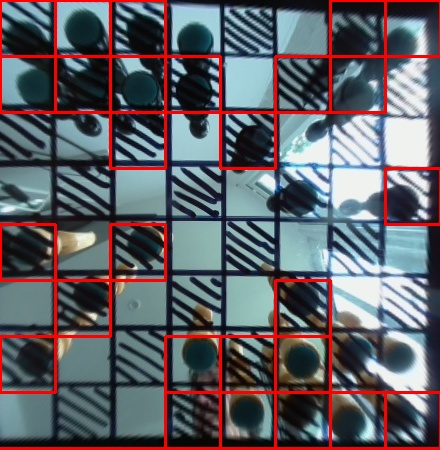
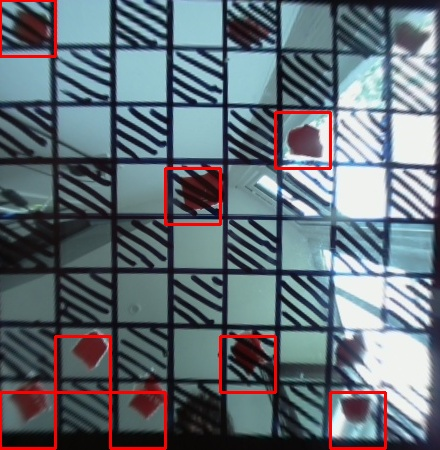
removed all images

diff --git a/detectpieces.py b/detectpieces.py
@@ -11,17 +11,21 @@ x, y, w, h = crop_rectangle
 # Crop the image
 cropped_image = image[y:y+h, x:x+w]
 
-# Convert to grayscale
-gray = cv2.cvtColor(cropped_image, cv2.COLOR_BGR2GRAY)
+# Convert to HSV for better color isolation
+hsv_image = cv2.cvtColor(cropped_image, cv2.COLOR_BGR2HSV)
 
-bilateral_filtered_image = cv2.bilateralFilter(gray, 5, 75, 75)
+# Define color range for red pieces (remember HSV color space is different!)
+lower_red1 = np.array([0, 50, 50])
+upper_red1 = np.array([10, 255, 255])
+lower_red2 = np.array([160, 50, 50])
+upper_red2 = np.array([180, 255, 255])
 
-# Apply Gaussian blur to reduce noise and avoid false circle detection
-gray_blur = cv2.GaussianBlur(bilateral_filtered_image, (15, 15), 0)
+# Threshold the HSV image to get only red colors
+red_mask1 = cv2.inRange(hsv_image, lower_red1, upper_red1)
+red_mask2 = cv2.inRange(hsv_image, lower_red2, upper_red2)
 
-# Threshold the gray image to get only darker colors
-_, threshold = cv2.threshold(gray_blur, 50, 255, cv2.THRESH_BINARY_INV)
-
+# Combine the two masks
+red_mask = cv2.bitwise_or(red_mask1, red_mask2)
 # Define the grid dimensions
 grid_size = 8
 
@@ -29,25 +33,25 @@ grid_size = 8
 step_size_x = w // grid_size
 step_size_y = h // grid_size
 
-# Draw the grid and check for chess pieces
+# Draw the grid and check for red pieces
 for i in range(0, w, step_size_x):
     for j in range(0, h, step_size_y):
         # Extract the cell
-        cell = threshold[j:j+step_size_y, i:i+step_size_x]
+        cell = red_mask[j:j+step_size_y, i:i+step_size_x]
 
-        # Calculate the proportion of dark pixels
-        white_pixels = np.sum(cell == 0)
+        # Calculate the proportion of red pixels
+        red_pixels = np.sum(cell == 255)
         total_pixels = np.size(cell)
-        if white_pixels / total_pixels < 0.7:  
+        if red_pixels / total_pixels > 0.065:  # Modify this threshold based on your specific needs
             cv2.rectangle(cropped_image, (i, j), (i+step_size_x, j+step_size_y), (0, 0, 255), 2)
 
-    cv2.line(threshold, (i, 0), (i, h), (0, 255, 0), 1)
+    cv2.line(red_mask, (i, 0), (i, h), (0, 255, 0), 1)
 
 for i in range(0, h, step_size_y):
-    cv2.line(threshold, (0, i), (w, i), (0, 255, 0), 1)
+    cv2.line(red_mask, (0, i), (w, i), (0, 255, 0), 1)
 
-#display threshold image
-cv2.imshow("threshold image", threshold)
+#display red mask image
+cv2.imshow("Red mask", red_mask)
 cv2.waitKey(0)
 
 # Display the cropped image
